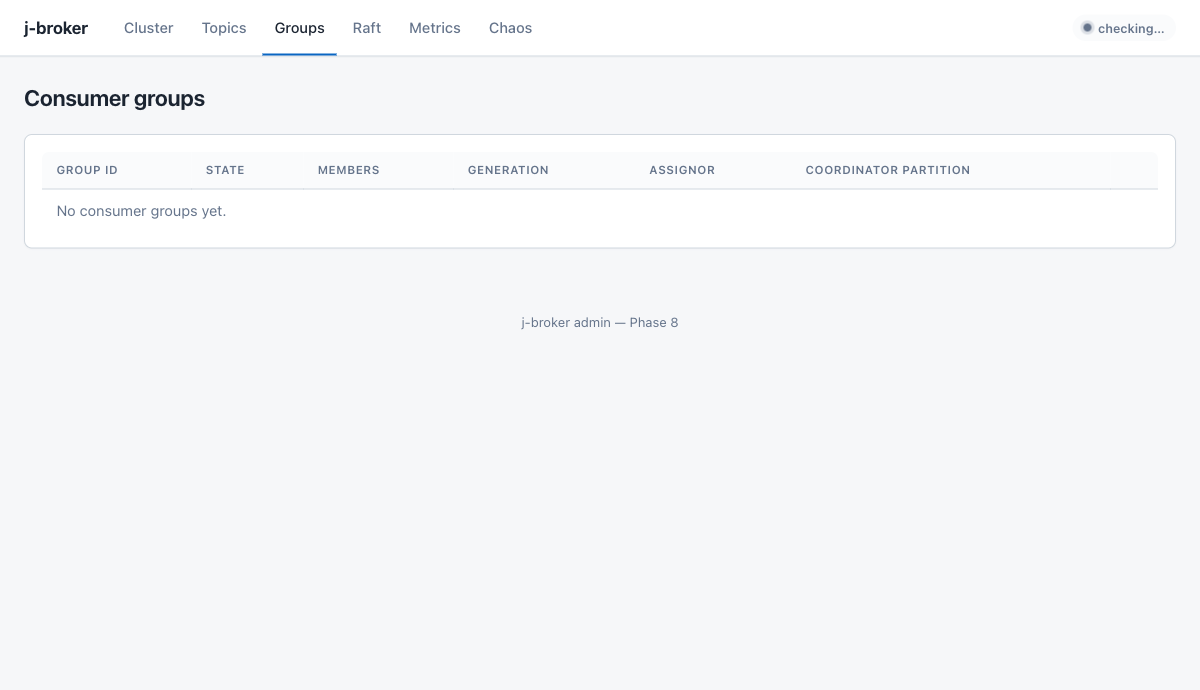
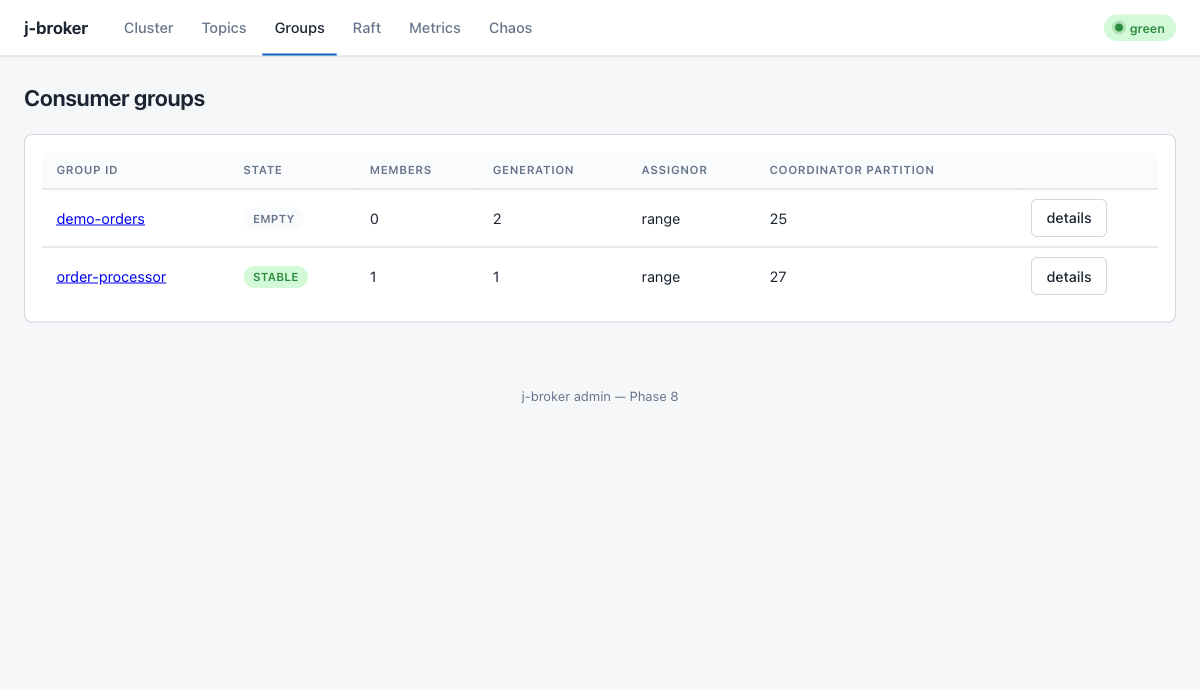
docs(readme): refresh for Phase 14 — consume CLI, timeseries endpoint, working UI
Updated README to cover the Phase 14 shipments:
- Quick start shows 'j-broker consume --group G --topic T' alongside
  console-consumer, with a note that the former is coordinator-aware.
- New Metrics section with the Chart.js /metrics screenshot and a
  callout that the page hydrates from the server-side history ring.
- Consumer groups section wired to both the list + detail
  screenshots, and notes that 'j-broker consume ...' populates it.
- REST table gains /api/v1/metrics/timeseries?window=5m (P14.3).
- CLI reference gains the new 'j-broker consume' row.
- Roadmap lists Phase 14 as complete and names Phase 15's three
  in-flight slices (advertised listeners, mTLS, Helm).

Screenshots re-captured via Playwright against the post-Phase-14
stack: all modals behave, sparklines render real lines, groups page
shows an active 'order-processor' member with lag table + progress
bars. Removed the now-stale topics-create-modal.png (modal works
correctly on click now, so no need to document the broken-flash
state).

diff --git a/README.md b/README.md
@@ -110,9 +110,13 @@ Combined with the admin app:
 echo -e "o-1\no-2\no-3" | ./broker-app/build/install/broker-app/bin/broker-app \
   produce --broker localhost:9092 --topic orders --partition 0
 
-# Consume
+# Consume from a single partition (simple, no coordinator)
 ./broker-app/build/install/broker-app/bin/broker-app console-consumer \
   --broker localhost:9092 --topic orders --partition 0 --from-beginning
+
+# Consumer group (coordinator handshake, auto-assignment, commits)
+./broker-app/build/install/broker-app/bin/broker-app consume \
+  --broker localhost:9092 --group order-processor --topic orders
 ```
 
 ### Prometheus + Grafana
@@ -143,9 +147,7 @@ List of user + internal topics with partition counts, replication factor, compac
 
 ![Topics list](docs/screenshots/topics.png)
 
-Creating a topic uses a modal that posts `{name, partitions, replication_factor, config}` to `POST /api/v1/topics`.
-
-![Create topic modal](docs/screenshots/topics-create-modal.png)
+"+ Create topic" opens an Alpine-driven modal that POSTs `{name, partitions, replication_factor, config}` to `POST /api/v1/topics`.
 
 ### Topic detail
 
@@ -157,15 +159,27 @@ Force-compact sends `POST /api/v1/topics/{name}/partitions/{p}/compact`, fans ac
 
 ### Consumer groups
 
-Lists every group tracked by the coordinator with state, member count, generation, and the `__consumer_offsets` partition that owns it. The group detail view (not pictured, populates when a real consumer joins) shows members, assigned partitions, and per-partition lag.
+Lists every group tracked by the coordinator with state, member count, generation, and the `__consumer_offsets` partition that owns it. Join via `j-broker consume --group ID --topic T`; the list populates the moment the first heartbeat lands.
 
 ![Consumer groups](docs/screenshots/groups.png)
+
+Group detail shows the member slot, which partitions it owns, and a per-partition lag table with progress bars.
+
+![Consumer group detail](docs/screenshots/group-detail.png)
 
 ### Raft
 
 Per-broker Raft state — current role, term, commit index, last applied, voted-for, log end — pulled via `Metadata.DescribeRaft` and fanned across every broker.
 
 ![Raft state](docs/screenshots/raft.png)
+
+### Metrics
+
+Throughput + p99 latency line charts (Chart.js, self-hosted) over a rolling 5-minute window. The page **hydrates from the server-side history ring on load** — no more watching a flat line grow; you see the real recent window the moment you navigate in. Live polling every 2s extends it.
+
+![Metrics page](docs/screenshots/metrics.png)
+
+Backed by `GET /api/v1/metrics/timeseries?window={30s|5m|1h}`; the `ThroughputHistory` component persists one aggregate per scrape tick (default 5s interval, 600-sample ring = 50 min).
 
 ### Chaos
 
@@ -514,6 +528,7 @@ All paths are under `/api/v1/`. JSON is snake_case throughout (Jackson configure
 | `GET` | `/raft/nodes/{id}` | Single broker's Raft state |
 | `GET` | `/metrics/throughput` | Rolling throughput window |
 | `GET` | `/metrics/latency` | p50/p99/p999 latencies |
+| `GET` | `/metrics/timeseries?window=5m` | Server-side history for sparklines (P14.3) |
 | `GET` | `/events` | Server-Sent Events stream (`Last-Event-ID` supported) |
 | `GET` | `/health/badge` | 5s-polled health pill for the top nav |
 | `POST` | `/chaos/kill-broker/{id}` | Exit the broker process (requires chaos port) |
@@ -672,6 +687,7 @@ j-broker server   --data-dir DIR --broker-port P [--raft-port P] [--id N]
 j-broker topics   create|list|describe --broker HOST:PORT [...]
 j-broker produce  --broker HOST:PORT --topic T --partition N   (stdin = one msg per line)
 j-broker console-consumer --broker HOST:PORT --topic T --partition N [--from-beginning]
+j-broker consume  --broker HOST:PORT --group G --topic T [--topic T2 ...]   (P14.4, coordinator-aware)
 j-broker admin    cluster-info | topics ... | groups ... | raft  [--admin URL]
 ```
 
@@ -782,12 +798,12 @@ Where the project is, phase by phase:
 - [x] **Phase 11** — Docker image hardening, RabbitMQ-style UI polish, snake_case JSON, chaos force-election.
 - [x] **Phase 12** — Perf bench module, sparse-offset compaction, preferred-leader balancer wiring, real-RESP Redis quota enforcer, admin consumer-group mutations.
 - [x] **Phase 13** — v1.1 correctness-gap closers: force-compact admin RPC + IT, consumer-group admin-mutation round-trip ITs, balancer-rebalance IT, CI-grade 10k-client smoke, README bench table, Redis pub/sub SSE fan-out.
+- [x] **Phase 14** — Admin UI reliability: `x-cloak` modal-flash fix + self-hosted Alpine/htmx/Chart.js in `admin-app/.../static/vendor/` (Chrome ORB was blocking the unpkg CDN); `/metrics` sparklines wired to snake_case fields; `GET /api/v1/metrics/timeseries` + `ThroughputHistory` ring so overview + metrics hydrate on load instead of starting blank; `j-broker consume --group G --topic T` subcommand backed by the real `Consumer` library so the Groups page actually populates.
 
-Possible future phases:
-- mTLS between brokers + admin (multi-tenant security).
-- Helm charts for Kubernetes.
-- Globally-monotonic SSE ids backed by `Redis INCR` or a stream-backed ring.
-- Admin-originated audit events.
+Phase 15 (in flight — production hardening):
+- **P15.1** — Broker advertised host/port so external clients reach published Docker ports without `docker exec`.
+- **P15.2** — mTLS between brokers + admin + clients on the gRPC plane.
+- **P15.3** — Helm chart for Kubernetes.
 
 ---
 
